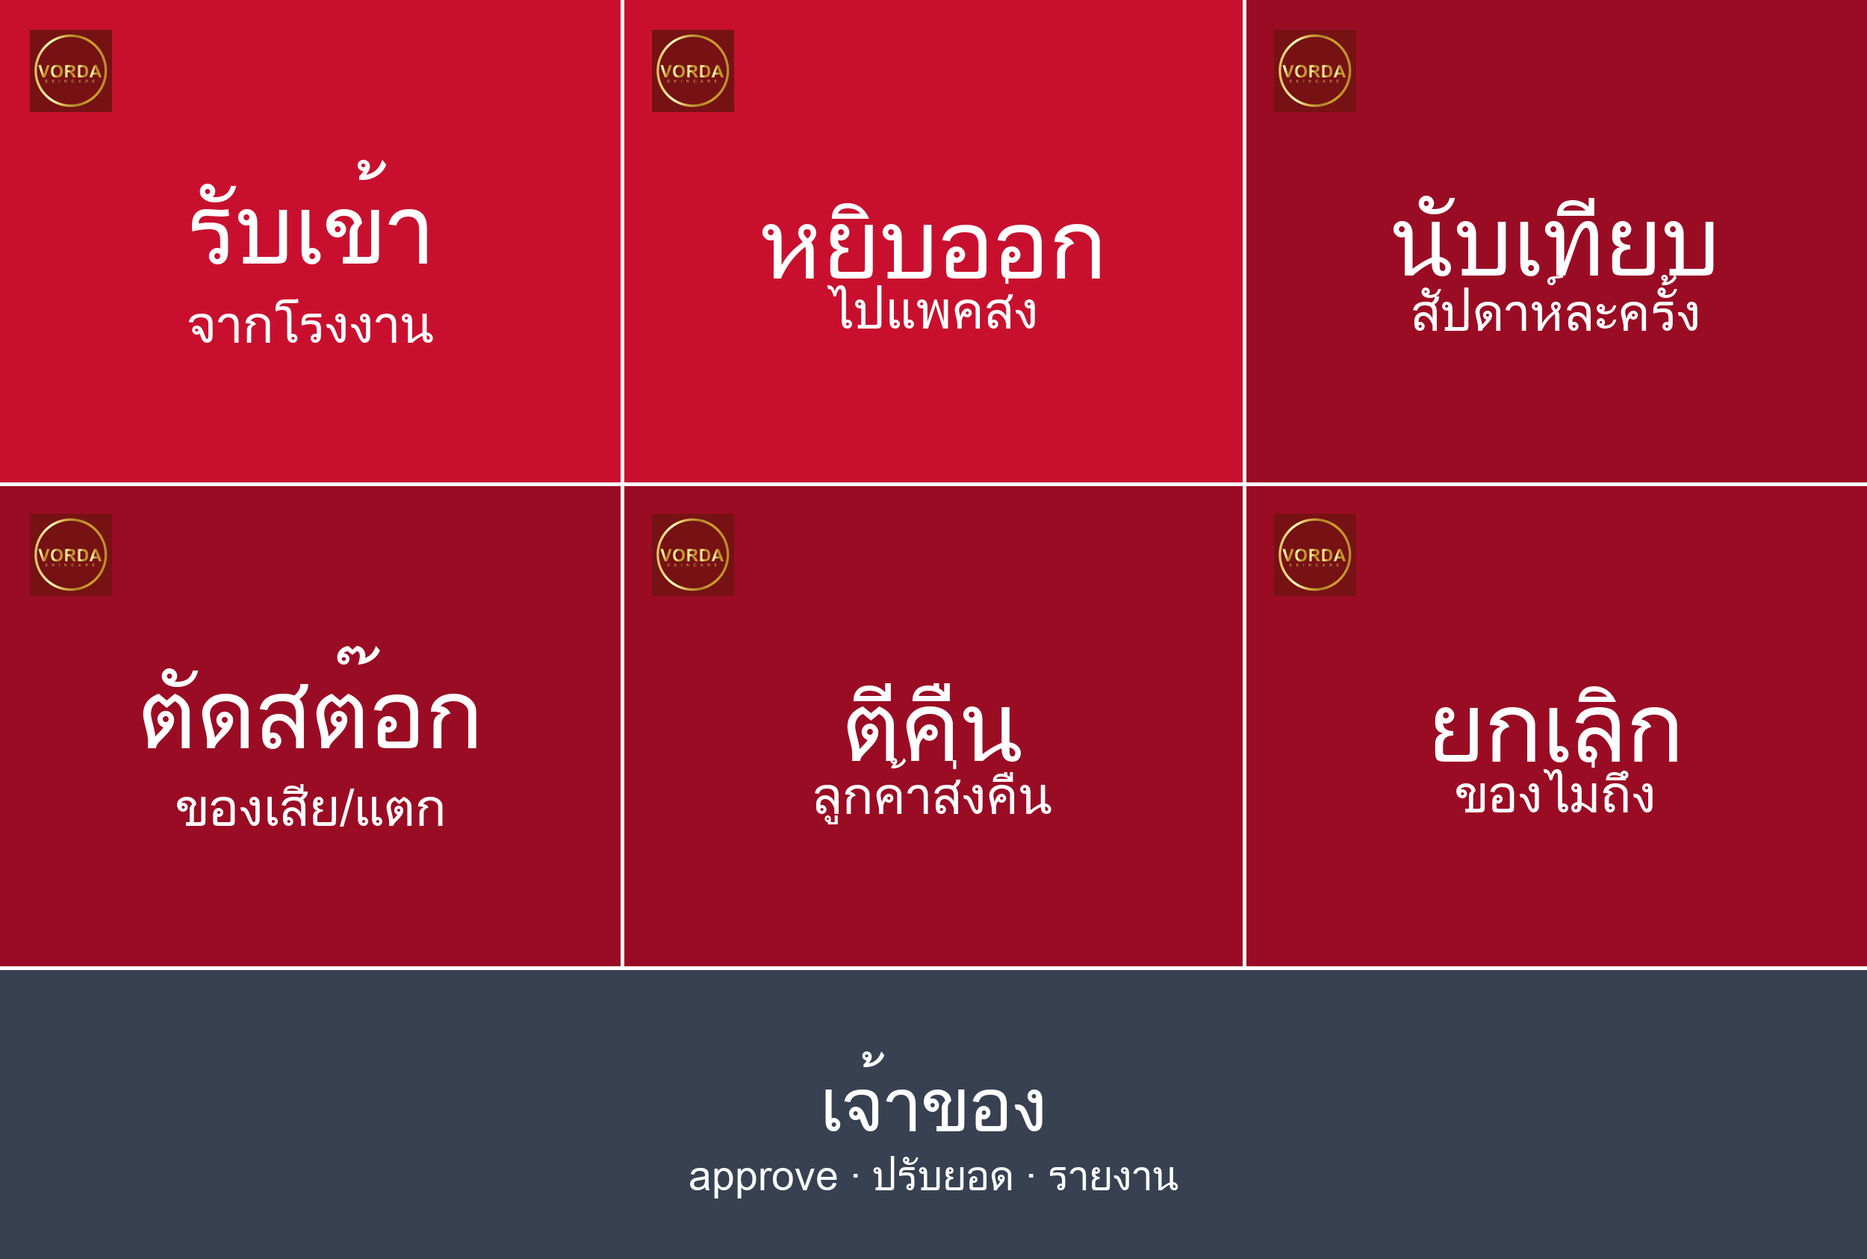
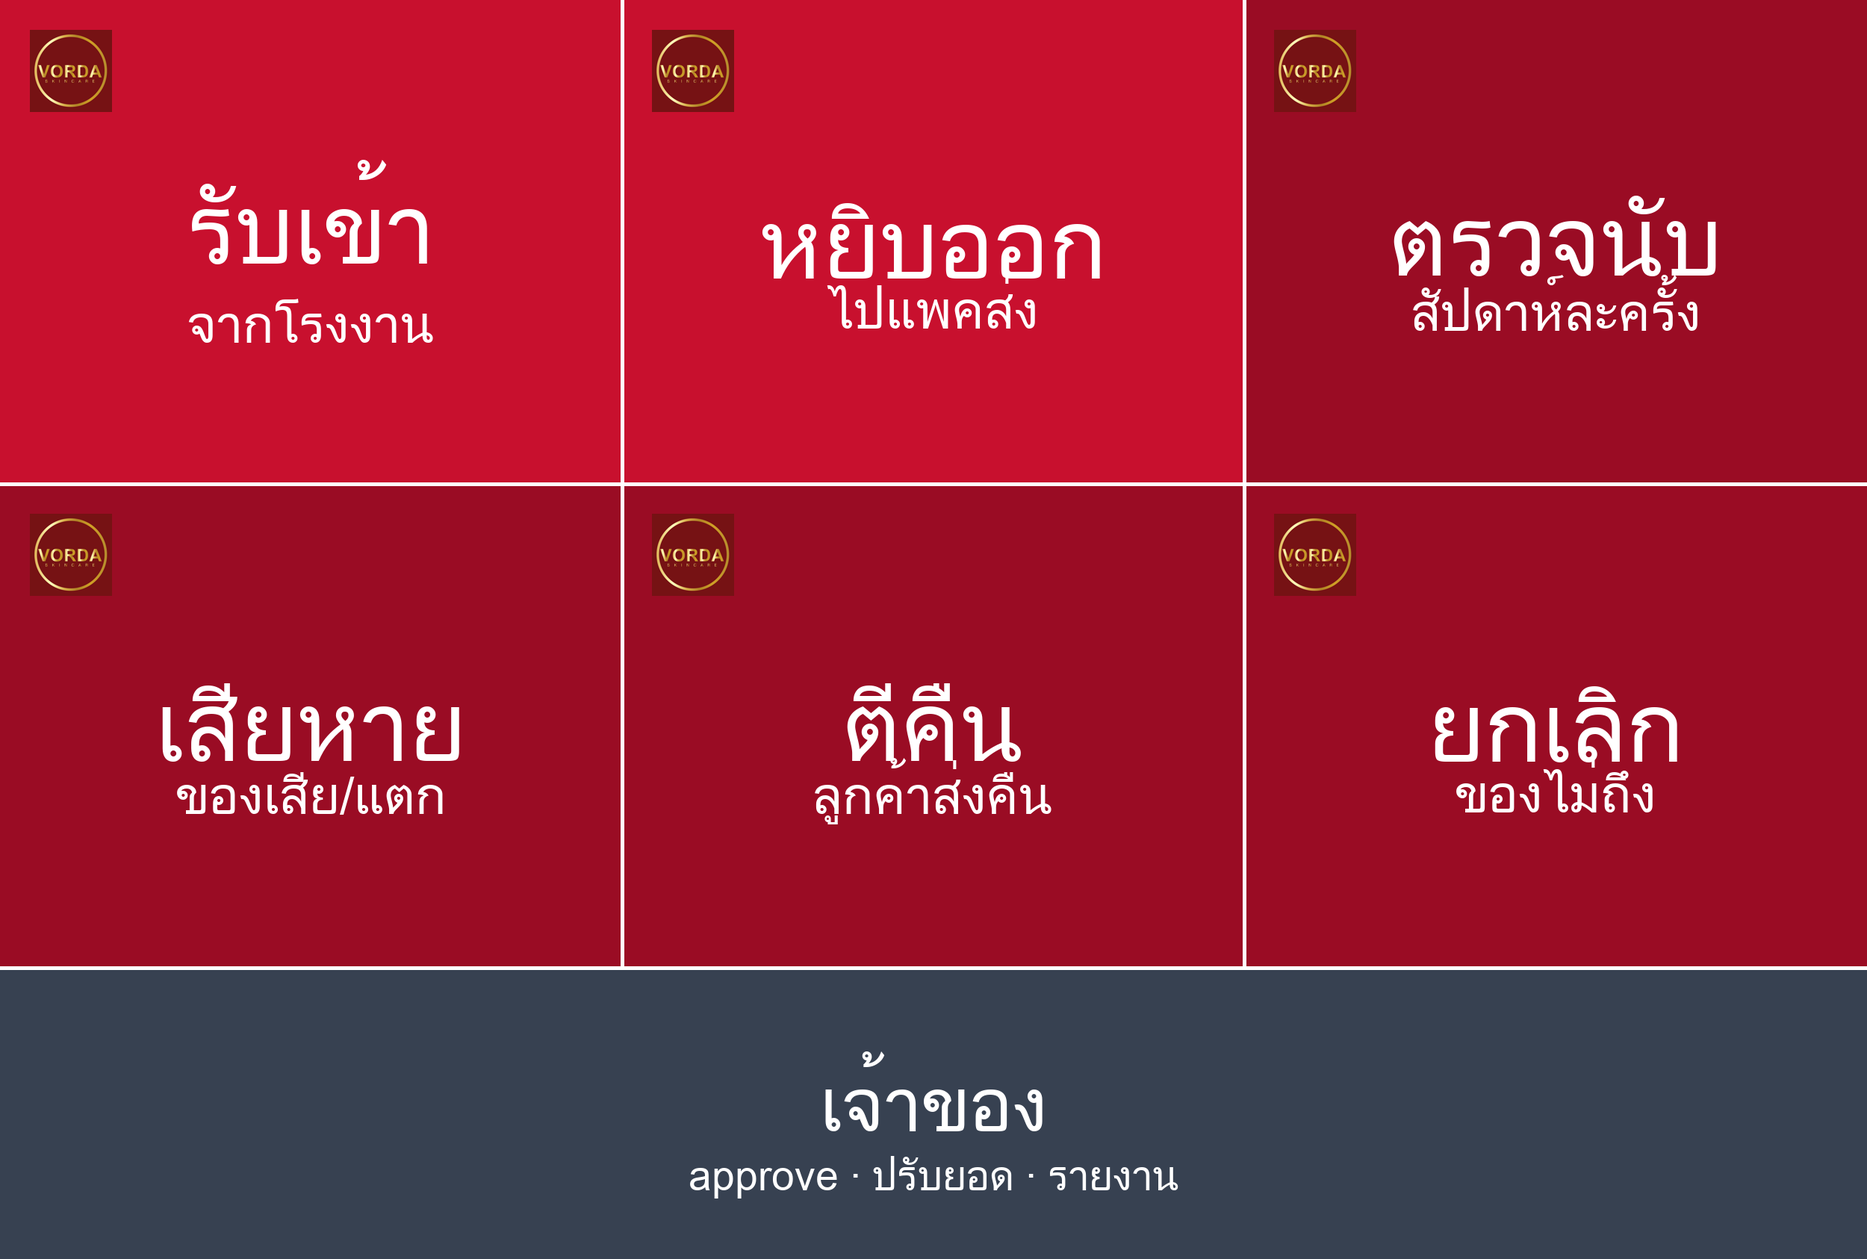
chore: rename "นับเทียบ" → "ตรวจนับ" and "ตัดสต๊อก" → "เสียหาย"
Plain replace across .md / .gs / .js / .html / .py:
- "นับเทียบ" → "ตรวจนับ" (sounds more natural to staff per user)
- "ตัดสต๊อก" → "เสียหาย" (focus on what's being recorded rather than
  the bookkeeping action)

Rich menu image regenerated and reuploaded so the new labels appear
on the bottom-row buttons.

Changed region(s): [[0.0624, 0.5243, 0.2808, 0.6785], [0.7488, 0.1542, 0.9048, 0.2159], [0.1872, 0.4935, 0.2184, 0.5243]]

diff --git a/liff/js/movementForm.js b/liff/js/movementForm.js
@@ -207,7 +207,7 @@ export async function initMovementForm(opts) {
     if (!cfg.allowZeroQty && qty <= 0) return showError(ui.err, 'จำนวนต้อง > 0');
     if (cfg.allowZeroQty && qty < 0) return showError(ui.err, 'จำนวนต้อง ≥ 0');
     if (qty !== Math.floor(qty)) return showError(ui.err, 'จำนวนต้องเป็นจำนวนเต็ม');
-    if (cfg.hasReason && !reason) return showError(ui.err, 'ใส่เหตุผลก่อน (ตัดสต๊อก)');
+    if (cfg.hasReason && !reason) return showError(ui.err, 'ใส่เหตุผลก่อน (เสียหาย)');
     if (photos.length < 4) return showError(ui.err, 'ถ่ายให้ครบ 4 รูปก่อน');
     if (round === 'r2' && !pairing) return showError(ui.err, 'ใส่เลข ' + cfg.idPrefix + 'YYYYMMDD-XXXX ของรอบ 1');
 
@@ -260,10 +260,10 @@ export async function initMovementForm(opts) {
         banner.textContent = '⚠ รอบ 2 ไม่ตรงกับรอบ 1 — รอหัวหน้าตัดสิน';
       } else if (status === 'no_action') {
         banner.className = 'success-banner';
-        banner.textContent = 'นับเทียบตรงระบบ — ไม่ต้องปรับยอด';
+        banner.textContent = 'ตรวจนับตรงระบบ — ไม่ต้องปรับยอด';
       } else if (status === 'awaiting_owner') {
         banner.className = 'warning-block';
-        banner.textContent = '⚠ นับเทียบไม่ตรงระบบ — รอเจ้าของปรับยอด (ส่วนต่าง '
+        banner.textContent = '⚠ ตรวจนับไม่ตรงระบบ — รอเจ้าของปรับยอด (ส่วนต่าง '
           + ((res.variance > 0 ? '+' : '') + res.variance) + ')';
       } else {
         banner.className = 'success-banner';

diff --git a/liff/owner.html b/liff/owner.html
@@ -66,7 +66,7 @@
 
       <!-- Section 4: Count Variance -->
       <div class="dash-section">
-        <h2>นับเทียบไม่ตรง รอปรับยอด <span id="variance-count" class="muted"></span></h2>
+        <h2>ตรวจนับไม่ตรง รอปรับยอด <span id="variance-count" class="muted"></span></h2>
         <div id="variance-list"></div>
       </div>
 
@@ -270,7 +270,7 @@
       const type = String(m.movement_type || '');
       const typeLabel = type === 'inbound' ? 'รับเข้า'
                       : type === 'outbound' ? 'หยิบออก'
-                      : type === 'adjust' ? 'ตัดสต๊อก' : type;
+                      : type === 'adjust' ? 'เสียหาย' : type;
       const photoCount = String(m.photo_urls || '').split(',').filter(u => u.trim()).length;
       div.innerHTML =
         '<div><strong>' + esc(typeLabel) + '</strong> · ' + esc(m.movement_id) + '</div>' +
@@ -441,7 +441,7 @@
       const supervisorQ = v.supervisor_qty != null && v.supervisor_qty !== ''
         ? v.supervisor_name + ' = ' + v.supervisor_qty : '-';
       showDetailModal({
-        title: 'นับเทียบไม่ตรงระบบ',
+        title: 'ตรวจนับไม่ตรงระบบ',
         rows: [
           ['รหัส', v.count_id],
           ['สินค้า', v.product_name],
@@ -540,7 +540,7 @@
     }
 
     async function adjustStock(countId, deltaQty) {
-      const reason = prompt('เหตุผลปรับยอด (เช่น "นับเทียบสัปดาห์ที่ 19"):', '') || '';
+      const reason = prompt('เหตุผลปรับยอด (เช่น "ตรวจนับสัปดาห์ที่ 19"):', '') || '';
       if (!confirm(countId + '\nปรับยอด ' + (deltaQty > 0 ? '+' : '') + deltaQty + ' ?')) return;
       try {
         const res = await api.post('adjustStock', {

diff --git a/liff/adjust.html b/liff/adjust.html
@@ -3,7 +3,7 @@
 <head>
   <meta charset="utf-8" />
   <meta name="viewport" content="width=device-width,initial-scale=1,viewport-fit=cover" />
-  <title>ตัดสต๊อก — คลัง Vorda</title>
+  <title>เสียหาย — คลัง Vorda</title>
   <meta http-equiv="Cache-Control" content="no-store, no-cache, must-revalidate" />
   <meta http-equiv="Pragma" content="no-cache" />
   <link rel="stylesheet" href="./css/style.css" />
@@ -16,7 +16,7 @@
   <div class="card">
     <img class="logo" src="./img/logo.jpg" alt="VORDA SKINCARE" />
     <div class="brand">บริษัท วอร์ด้า สกินแคร์ จำกัด</div>
-    <h1>ตัดสต๊อก (ของเสีย)</h1>
+    <h1>เสียหาย (ของเสีย)</h1>
     <div class="subtitle">double-blind 2 คน — ต้องระบุเหตุผล</div>
 
     <div id="error" class="error" style="display:none"></div>

diff --git a/liff/count.html b/liff/count.html
@@ -3,7 +3,7 @@
 <head>
   <meta charset="utf-8" />
   <meta name="viewport" content="width=device-width,initial-scale=1,viewport-fit=cover" />
-  <title>นับเทียบ — คลัง Vorda</title>
+  <title>ตรวจนับ — คลัง Vorda</title>
   <meta http-equiv="Cache-Control" content="no-store, no-cache, must-revalidate" />
   <meta http-equiv="Pragma" content="no-cache" />
   <link rel="stylesheet" href="./css/style.css" />
@@ -16,7 +16,7 @@
   <div class="card">
     <img class="logo" src="./img/logo.jpg" alt="VORDA SKINCARE" />
     <div class="brand">บริษัท วอร์ด้า สกินแคร์ จำกัด</div>
-    <h1>นับเทียบสัปดาห์</h1>
+    <h1>ตรวจนับสัปดาห์</h1>
     <div class="subtitle">double-blind 2 คน — ยอด 0 ก็ได้</div>
 
     <div id="error" class="error" style="display:none"></div>

diff --git a/liff/index.html b/liff/index.html
@@ -34,12 +34,12 @@
       </a>
       <a class="menu-btn" href="./count.html">
         <div class="menu-icon">=</div>
-        <div>นับเทียบ</div>
+        <div>ตรวจนับ</div>
         <div class="menu-sub">สัปดาห์ละครั้ง</div>
       </a>
       <a class="menu-btn" href="./adjust.html">
         <div class="menu-icon">×</div>
-        <div>ตัดสต๊อก</div>
+        <div>เสียหาย</div>
         <div class="menu-sub">ของเสีย/แตก</div>
       </a>
       <a class="menu-btn" href="./return.html">

diff --git a/CONTEXT.md b/CONTEXT.md
@@ -9,7 +9,7 @@
 
 - **ชื่อ:** `vorda-warehouse`
 - **ชื่อไทย:** ระบบคลังสินค้า Vorda (double-blind audit)
-- **Description:** บันทึกทุก movement (เข้า/ออก/ตัด/คืน/ยกเลิก) แบบ double-blind 2 คน + นับเทียบรายสัปดาห์ พร้อม approve flow สำหรับ owner
+- **Description:** บันทึกทุก movement (เข้า/ออก/ตัด/คืน/ยกเลิก) แบบ double-blind 2 คน + ตรวจนับรายสัปดาห์ พร้อม approve flow สำหรับ owner
 - **Type:** Mini app (ไม่ใช่ enterprise)
 - **Stack:** Google Sheet + Apps Script + LINE Messaging API + LIFF + GitHub Pages
 - **บริษัท:** บริษัท วอร์ด้า สกินแคร์ จำกัด (Vorda Skincare)
@@ -25,9 +25,9 @@
 | **ยอดคงเหลือ** | quantity on hand / stock | จำนวนสินค้าในคลังตอนนี้ |
 | **รับเข้า** | inbound / receive | ของจากโรงงานเข้าคลัง |
 | **หยิบออก** | outbound / pick | หยิบของออกไปแพคส่งลูกค้า |
-| **นับเทียบ** | count / audit | นับสต๊อกจริงเทียบกับยอดในระบบ (สัปดาห์ละครั้ง) |
+| **ตรวจนับ** | count / audit | นับสต๊อกจริงเทียบกับยอดในระบบ (สัปดาห์ละครั้ง) |
 | **ส่วนต่าง** | variance / discrepancy | ยอดนับจริง − ยอดในระบบ |
-| **ตัดสต๊อก** | adjust / write-off | ตัดของเสีย/แตก/หาย ออกจากสต๊อก |
+| **เสียหาย** | adjust / write-off | ตัดของเสีย/แตก/หาย ออกจากสต๊อก |
 | **ตีคืน** | return | ลูกค้าส่งของกลับมา (มี VDO + ตรวจสภาพ) |
 | **ยกเลิก** | cancel / RTS | ออเดอร์ยกเลิก ของไม่ถึงปลายทางตีกลับ (ของไม่ได้แกะ) |
 | **เคลม** | claim | ของไม่ใช่ของเรา → ส่งคืน supplier ผ่าน flow 3 ขั้น |
@@ -109,7 +109,7 @@
 | `created_at` | datetime | |
 | `confirmed_at` | datetime | |
 
-### Sheet: `Counts` — นับเทียบสัปดาห์ละครั้ง
+### Sheet: `Counts` — ตรวจนับสัปดาห์ละครั้ง
 | Column | Type | หมายเหตุ |
 |---|---|---|
 | `count_id` | string | `CNT-YYYYMMDD-XXXX` |

diff --git a/TASKS.md b/TASKS.md
@@ -162,7 +162,7 @@
   - variance === 0 → status='no_action' + push manager info
   - variance ≠ 0 → status='awaiting_owner' + push owner ให้กดปรับยอด
 - [x] กรณีไม่ตรง → pending_supervisor + push supervisors
-- [x] qty นับเทียบยอมรับ 0 ได้ (นับแล้วของหมด)
+- [x] qty ตรวจนับยอมรับ 0 ได้ (นับแล้วของหมด)
 - [x] payload key: `pairingCountId` (แทน pairingMovementId)
 - **Acceptance:** ⏳ test ทีหลังตอน LIFF พร้อม
 
@@ -262,7 +262,7 @@
 - [x] test wrappers: `testSendDailyReport()`, `testSendWeeklyReport()`
 - [x] **retrofit flex cards ใน handlers:**
   - Inbound/Outbound/Adjust mismatch → `buildSupervisorTiebreakerCard(record, 'movement', label)`
-  - Count mismatch → `buildSupervisorTiebreakerCard(record, 'count', 'นับเทียบ')`
+  - Count mismatch → `buildSupervisorTiebreakerCard(record, 'count', 'ตรวจนับ')`
   - Count awaiting_owner (รอบ 2 + tiebreaker path) → `buildVarianceAlertCard()`
   - submitReturn → `buildPendingReturnCard()`
   - submitCancel → `buildPendingCancelCard()`
@@ -273,7 +273,7 @@
 
 ### TASK-23: liff/index.html — landing
 - [x] หน้าแรกหลังเปิด rich menu
-- [x] แสดง 6 ปุ่มหลัก (รับเข้า / หยิบออก / นับเทียบ / ตัดสต๊อก / ตีคืน / ยกเลิก)
+- [x] แสดง 6 ปุ่มหลัก (รับเข้า / หยิบออก / ตรวจนับ / เสียหาย / ตีคืน / ยกเลิก)
 - [x] แต่ละปุ่ม: anchor link ตรงไป <page>.html
 - [x] ปุ่มเจ้าของโผล่เฉพาะ owner (เช็คผ่าน getOwnerDashboard — ok=true แสดง)
 
@@ -345,8 +345,8 @@
 - [ ] รับเข้า: นับไม่ตรง → หัวหน้าตัดสิน
 - [ ] หยิบออก: Stock ลด
 - [ ] หยิบออก: ของไม่พอ — ปฏิเสธ
-- [ ] นับเทียบ: variance ≠ 0 → owner ได้ alert → กดปรับยอด → Stock ตรง
-- [ ] ตัดสต๊อก: ของเสีย — Stock ลด
+- [ ] ตรวจนับ: variance ≠ 0 → owner ได้ alert → กดปรับยอด → Stock ตรง
+- [ ] เสียหาย: ของเสีย — Stock ลด
 - [ ] ตีคืน: ของเรา + ดี — Stock เพิ่ม
 - [ ] ตีคืน: ของเรา + ไม่ดี — Stock ไม่เปลี่ยน
 - [ ] ตีคืน: ไม่ใช่ของเรา → claim 3 ขั้น

diff --git a/CLAUDE.md b/CLAUDE.md
@@ -53,8 +53,8 @@ vorda-warehouse/
 │   ├── WebApp.gs           # doGet/doPost router + 14 actions + LINE webhook
 │   ├── Inbound.gs          # หยิบเข้าจากโรงงาน (double-blind)
 │   ├── Outbound.gs         # หยิบออกไปแพค (double-blind)
-│   ├── Count.gs            # นับเทียบสัปดาห์ละครั้ง (double-blind, ไม่ apply Stock อัตโนมัติ)
-│   ├── Adjust.gs           # ตัดสต๊อก ของเสีย (double-blind) + owner-initiated
+│   ├── Count.gs            # ตรวจนับสัปดาห์ละครั้ง (double-blind, ไม่ apply Stock อัตโนมัติ)
+│   ├── Adjust.gs           # เสียหาย ของเสีย (double-blind) + owner-initiated
 │   ├── Return.gs           # ตีคืนสินค้า + flow เคลม 3 ขั้น
 │   ├── Cancel.gs           # ยกเลิกออเดอร์
 │   ├── Submission.gs       # cancelSubmission (5 นาที) + getProducts
@@ -74,8 +74,8 @@ vorda-warehouse/
 │   ├── index.html          # landing — list 6 ปุ่มหลัก + redirect ไป LIFF apps
 │   ├── inbound.html        # รับเข้า (staff)
 │   ├── outbound.html       # หยิบออก (staff)
-│   ├── count.html          # นับเทียบ (staff)
-│   ├── adjust.html         # ตัดสต๊อก (staff)
+│   ├── count.html          # ตรวจนับ (staff)
+│   ├── adjust.html         # เสียหาย (staff)
 │   ├── return.html         # ตีคืน (staff) — มี VDO recording
 │   ├── cancel.html         # ยกเลิก (staff)
 │   └── owner.html          # owner LIFF — dashboard + approve + claim flow
@@ -94,7 +94,7 @@ vorda-warehouse/
 ### Phase 2 — LINE Channel + LIFF
 - ผู้ใช้สร้าง: LINE OA + Messaging API channel
 - สร้าง LIFF apps **7 ตัว** (inbound/outbound/count/adjust/return/cancel/owner)
-- Claude เขียน `setup_rich_menu.py` (4 ปุ่มหลัก: รับเข้า / หยิบออก / นับเทียบ / รายการอื่นๆ)
+- Claude เขียน `setup_rich_menu.py` (4 ปุ่มหลัก: รับเข้า / หยิบออก / ตรวจนับ / รายการอื่นๆ)
 - ขอ: LINE_CHANNEL_ACCESS_TOKEN + LINE_CHANNEL_SECRET + 7 LIFF_IDs
 
 ### Phase 3 — Apps Script foundation (มีอยู่แล้วใน template)

diff --git a/README.md b/README.md
@@ -1,6 +1,6 @@
 # Vorda Warehouse
 
-ระบบคลังสินค้า Vorda Skincare — บันทึกทุก movement (รับเข้า/หยิบออก/ตัดสต๊อก/ตีคืน/ยกเลิก) แบบ double-blind 2 คน + นับเทียบรายสัปดาห์ พร้อม approve flow ผ่าน LINE
+ระบบคลังสินค้า Vorda Skincare — บันทึกทุก movement (รับเข้า/หยิบออก/เสียหาย/ตีคืน/ยกเลิก) แบบ double-blind 2 คน + ตรวจนับรายสัปดาห์ พร้อม approve flow ผ่าน LINE
 
 **Stack:** GitHub Pages (LIFF) + Apps Script (API) + Google Sheet (DB) + LINE Messaging API + Drive (storage)
 
@@ -45,8 +45,8 @@ vorda-warehouse/
 |---|---|---|---|---|
 | รับเข้าจากโรงงาน | staff 2 คน | ✅ | 4 มุม | — |
 | หยิบออกไปแพค | staff 2 คน | ✅ | 4 มุม | — |
-| นับเทียบ (สัปดาห์ละครั้ง) | staff 2 คน | ✅ | 4 มุม | — |
-| ตัดสต๊อก ของเสีย | staff 2 คน | ✅ | 4 มุม | — |
+| ตรวจนับ (สัปดาห์ละครั้ง) | staff 2 คน | ✅ | 4 มุม | — |
+| เสียหาย ของเสีย | staff 2 คน | ✅ | 4 มุม | — |
 | ตีคืนสินค้า | staff 1 + owner approve | — | optional | ✅ ตอนแกะ |
 | ยกเลิกออเดอร์ | staff 1 + owner approve | — | บังคับ | — |
 | ตัดสินกรณีนับไม่ตรง | supervisor | — | — | — |

diff --git a/docs/architecture.md b/docs/architecture.md
@@ -68,7 +68,7 @@ graph TD
 - เหมือน Flow A แต่ apply Stock เป็นลบ (qty_on_hand -= qty)
 - ก่อน apply ตรวจ qty_on_hand >= qty — ถ้าไม่พอ reject + push manager
 
-### Flow C: นับเทียบ (count) — สัปดาห์ละครั้ง
+### Flow C: ตรวจนับ (count) — สัปดาห์ละครั้ง
 
 | # | Step | ใครทำ | ข้อมูล | ปลายทาง |
 |---|---|---|---|---|
@@ -81,7 +81,7 @@ graph TD
 | 11 | adjustStock → insert Movement (adjust) → apply Stock | Apps Script | — | Sheet |
 | 12 | update count: status=resolved_by_adjust | Apps Script | — | Sheet |
 
-### Flow D: ตัดสต๊อก (adjust) — ของเสีย/แตก
+### Flow D: เสียหาย (adjust) — ของเสีย/แตก
 - เหมือน Flow A แต่:
   - field `reason` บังคับ (เหตุผลที่ตัด)
   - apply Stock เป็นลบ (qty_on_hand -= qty)
@@ -127,7 +127,7 @@ graph TD
 - `Products` — master 5 SKU
 - `Stock` — ยอดคงเหลือปัจจุบัน
 - `Movements` — ทุก movement
-- `Counts` — นับเทียบสัปดาห์ละครั้ง
+- `Counts` — ตรวจนับสัปดาห์ละครั้ง
 - `Returns` — ตีคืนสินค้า
 - `Cancellations` — ยกเลิกออเดอร์
 - `Claims` — flow เคลม 3 ขั้น
